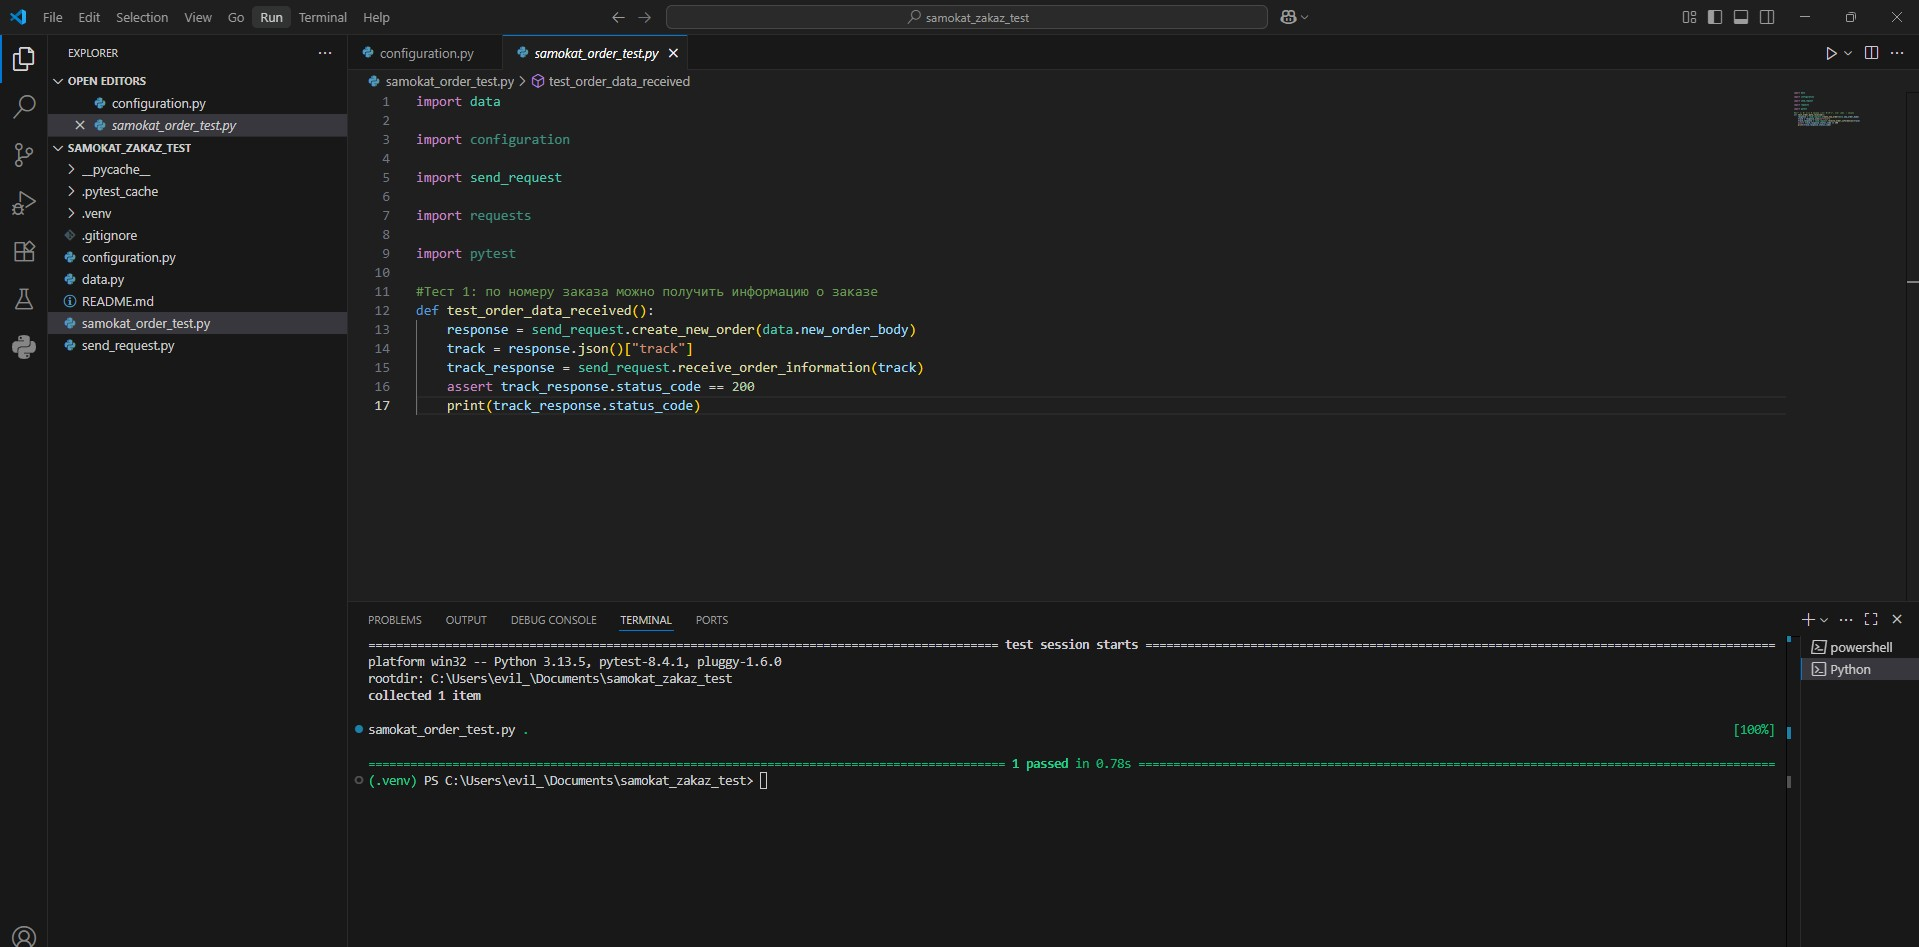
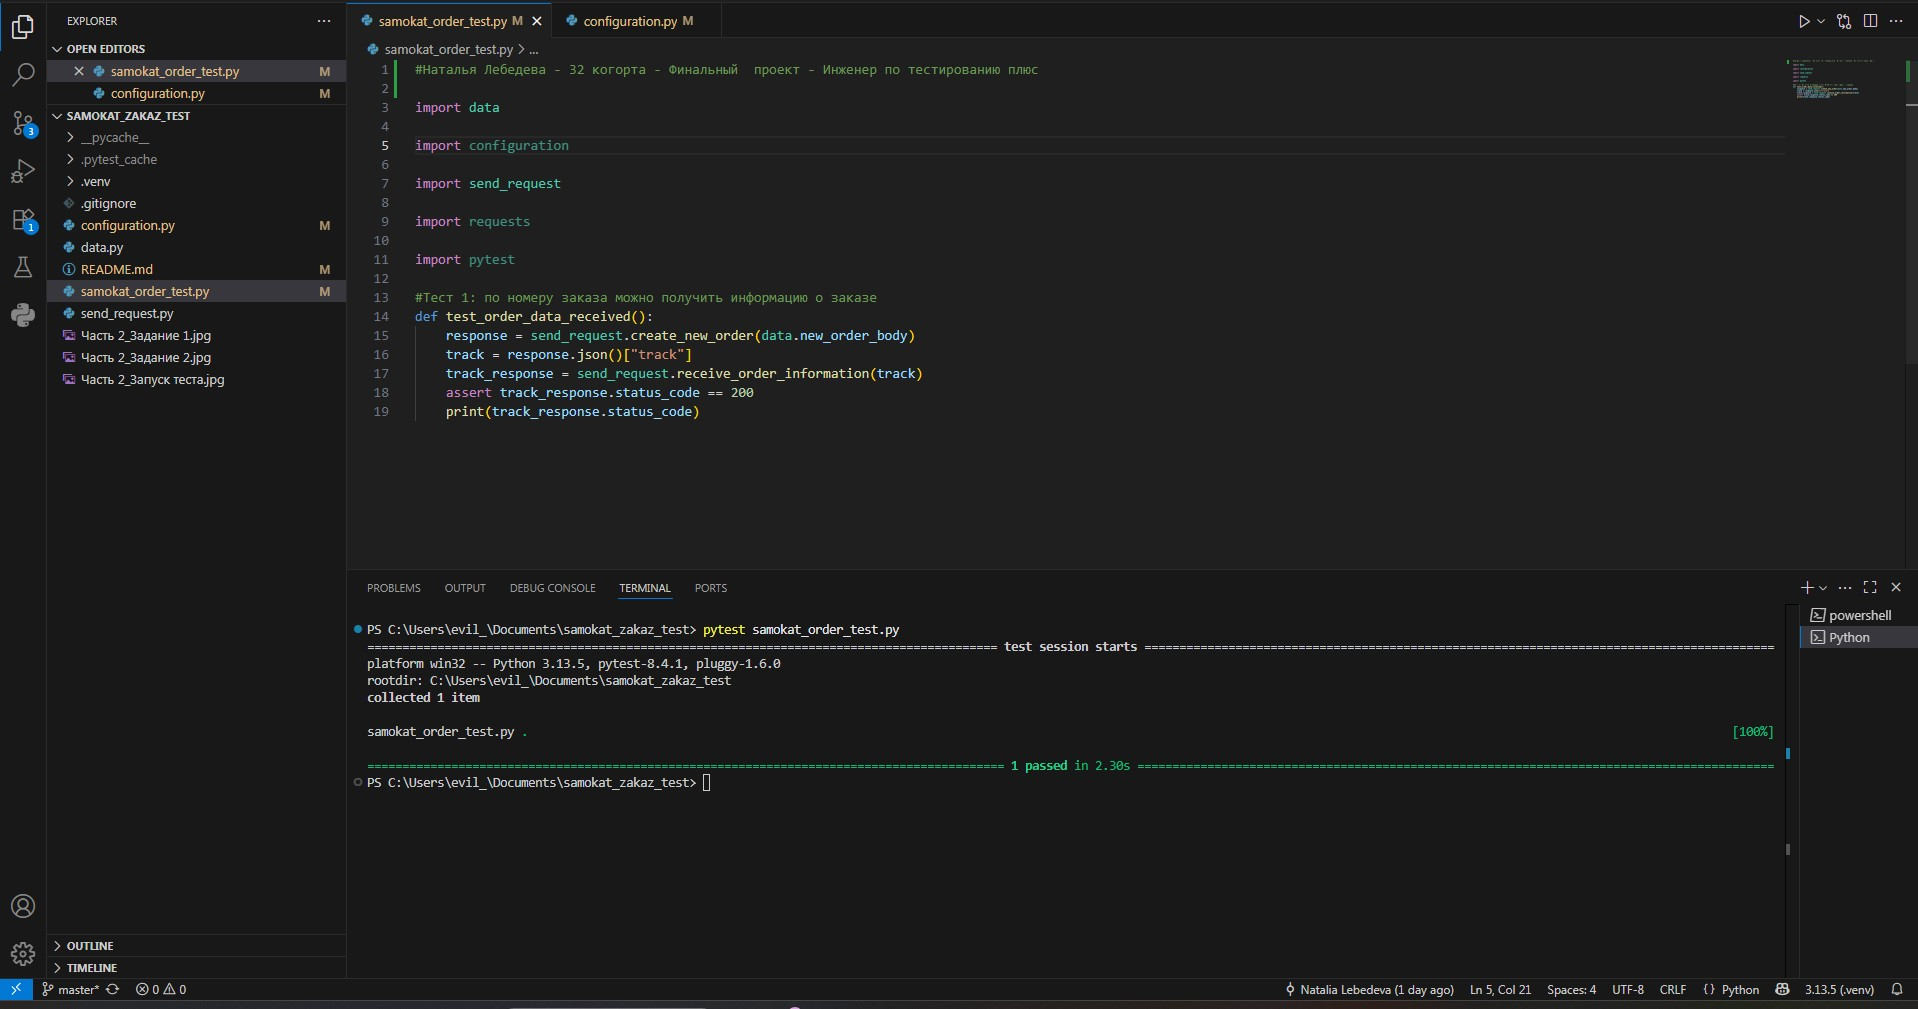
Add files via upload

diff --git a/configuration.py b/configuration.py
@@ -1,3 +1,3 @@
-MAIN_URL = "https://b6d0ec6e-099b-4f32-8d75-d011c5ba20db.serverhub.praktikum-services.ru"  #не забывай менять при перезапуске сервера !!без слеша в конце!
+MAIN_URL = "https://8f9e2a4b-4e38-4446-8950-732174c5d2cb.serverhub.praktikum-services.ru"  #не забывай менять при перезапуске сервера !!без слеша в конце!
 CREATE_ORDER_URL = "/api/v1/orders"  # ручка создания заказа
 RECEVE_Order_Track_URL = "/api/v1/orders/track"  # ручка получения заказа по его треку

diff --git a/samokat_order_test.py b/samokat_order_test.py
@@ -1,3 +1,5 @@
+#Наталья Лебедева - 32 когорта - Финальный  проект - Инженер по тестированию плюс
+
 import data
 
 import configuration
